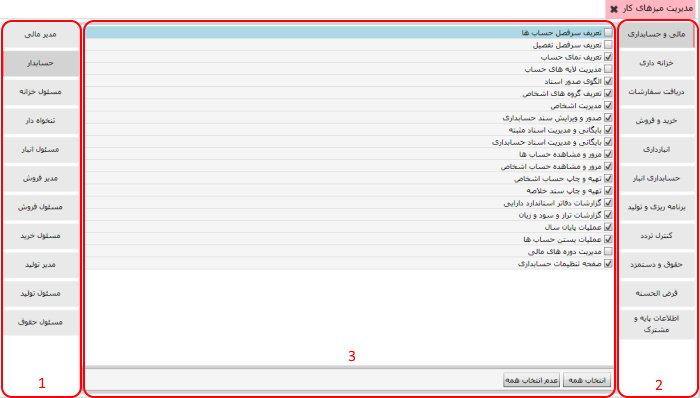
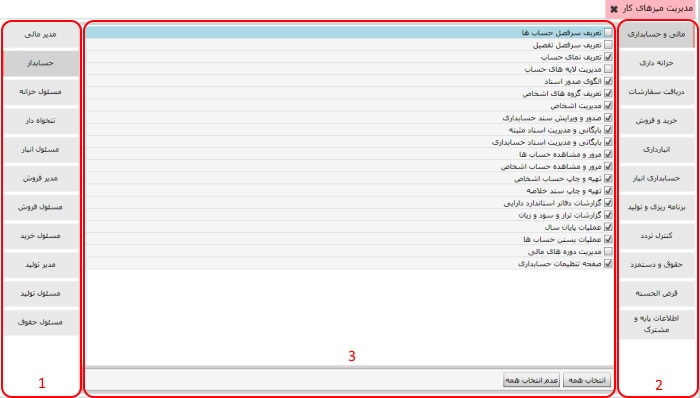
تغییر فرمت، سایز ، حجم عکس و اصلاح فرمت متن اصلی

diff --git a/Help/fa-IR/_18_اطلاعات پایه و مشترک/_15_مدیریت میزهای کار/Index.html b/Help/fa-IR/_18_اطلاعات پایه و مشترک/_15_مدیریت میزهای کار/Index.html
@@ -8,7 +8,7 @@
 
 <body>
 	<div>
-		<img class="Icon" src="i1.png" />
+		<img class="Icon" src="i1.jpg" />
 		<h1>مدیریت میزهای کار</h1>
 	</div>
 	<p>
@@ -18,7 +18,8 @@
 	<img class="LargPic" src="l1.jpg" />
 	<br>
 	<p>
-		در تصویر بالا سه کادر قرمز رنگ مشاهده می کنید برای اینکه دسترسی مورد نیاز را به کاربر تخصیص دهید به شرح زیر عمل کنید
+		در تصویر بالا سه کادر قرمز رنگ مشاهده می کنید برای اینکه دسترسی مورد نیاز را به کاربر تخصیص دهید به شرح زیر عمل
+		کنید
 	</p>
 
 	<ul>
@@ -26,7 +27,7 @@
 		<li>سپس از کادر شماره ی 2 سیستم مورد نظر را انتخاب کنید</li>
 		<li>در کادر شماره ی 3 زیر سیستم های مورد نظرتان نمایان می شود</li>
 	</ul>
-	
+
 	برای تخصیص دسترسی زیر سیستم ها کافی است گزینه ی آنها را فعال کنید
 
 	توجه داشته باشید زیر سیستم هایی که گزینه ی آنها فعال نیست
